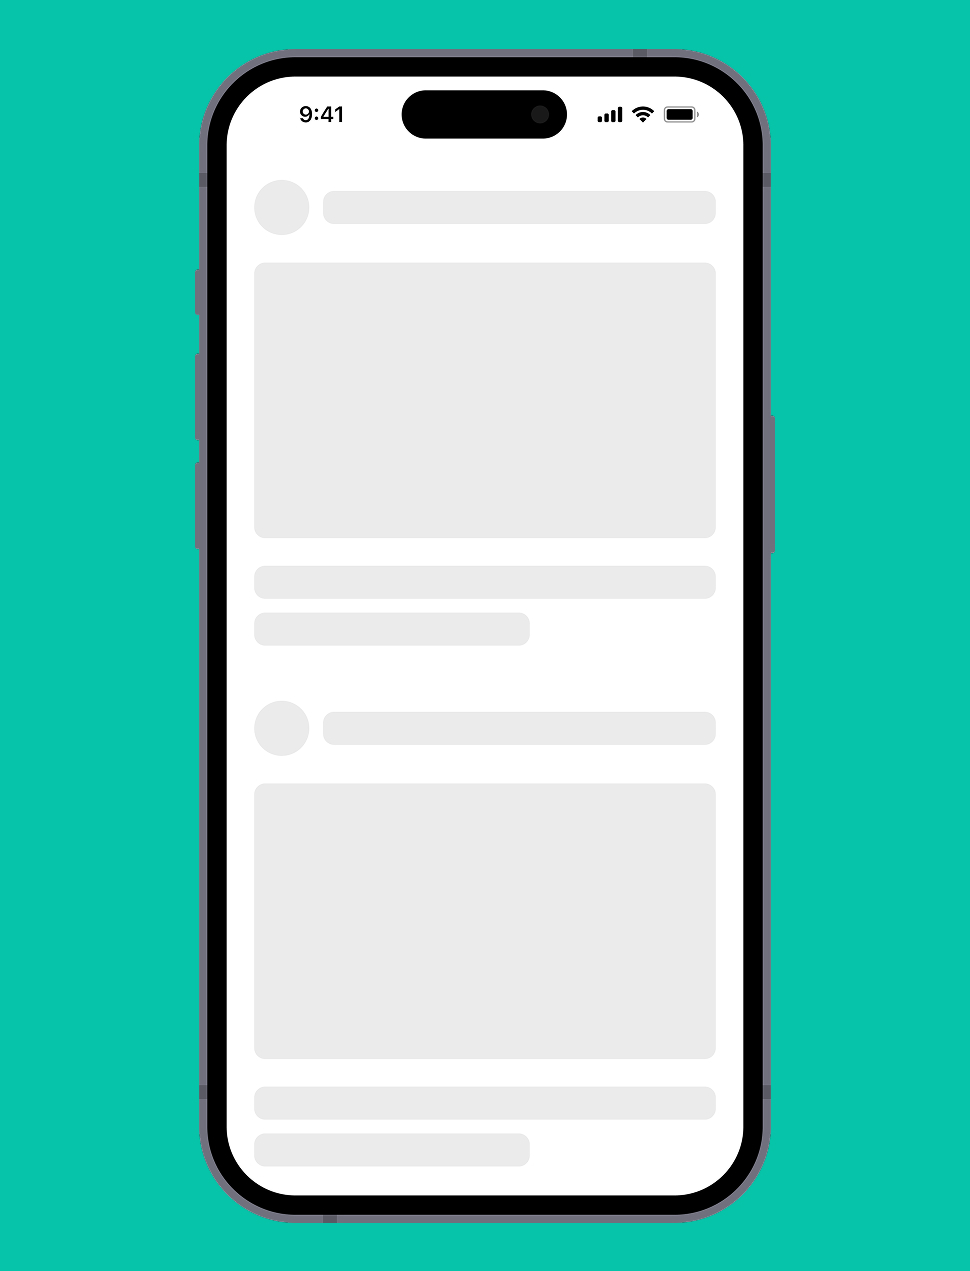
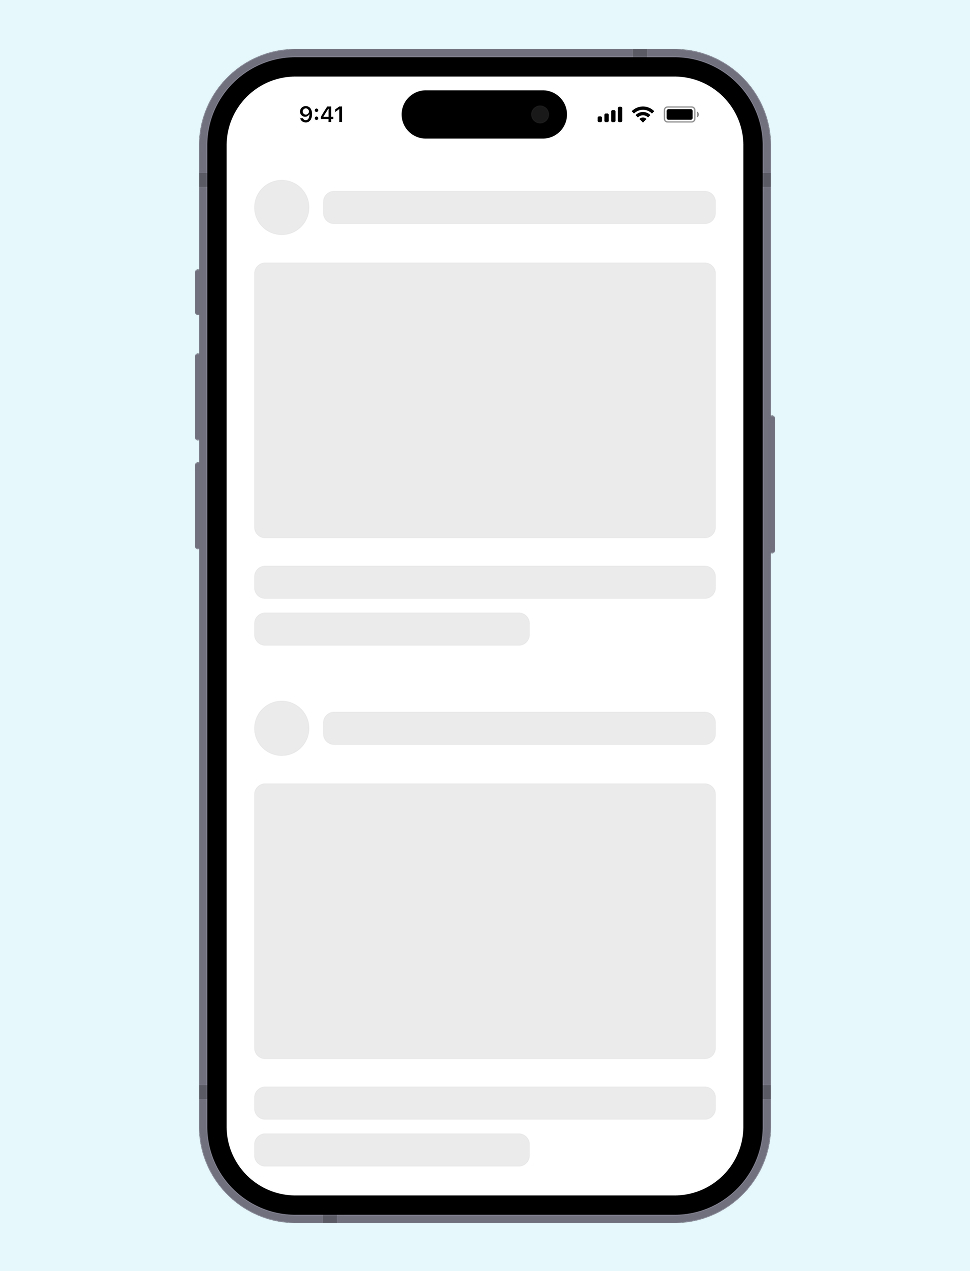
Refactored layout and component styles across the application; updated background colors for consistency, added new color variables, and enhanced the ContactMe component with an image and improved layout. Removed unused BulletList from About page for cleaner presentation.

diff --git a/components/shared/contact-me.tsx b/components/shared/contact-me.tsx
@@ -1,21 +1,36 @@
-import Link from "next/link";
-import { Button } from "../ui/button";
+import Image from "next/image";
 import YellowButton from "./yellow-button";
 
-const ContactMe = () => {
+interface ContactMeProps {
+  className?: string;
+}
+
+const ContactMe = ({ className }: ContactMeProps) => {
   return (
-    <div className="bg-panda-light-green mx-auto p-6 text-center">
-      <h2 className="mb-2 text-2xl font-bold tracking-tight text-white">
-        Looking for an Android Developer?
-      </h2>
-      <p className="mx-auto mb-6 max-w-2xl text-lg font-medium text-white/80">
-        I build Android apps that solve real-world problems.
-      </p>
-      <YellowButton
-        href="mailto:hiretimsf@gmail.com"
-        title="Contact Me"
-        textSize="lg"
-        mt={0}
+    <div
+      className={`bg-panda-background mx-auto flex max-w-2xl flex-col px-6 pt-16 lg:mx-0 lg:max-w-none lg:flex-row lg:items-center lg:pt-0 ${className || ""}`}
+    >
+      <div className="w-full flex-auto px-6 text-center sm:text-left">
+        <h2 className="text-panda-text text-center text-4xl font-semibold tracking-tight text-pretty sm:text-left sm:text-5xl">
+          Looking for an Android Developer?
+        </h2>
+        <p className="text-panda-text mt-6 text-center text-lg/8 text-pretty sm:text-left sm:text-lg">
+          I'm available for in-person or remote work.
+        </p>
+        <YellowButton
+          href="mailto:hiretimsf@gmail.com"
+          title="Contact Me"
+          mt={6}
+        />
+      </div>
+      <Image
+        alt="Contact me image"
+        src="/images/contact-me.png"
+        width={400}
+        height={400}
+        className="h-96 w-full flex-none rounded-2xl object-cover lg:aspect-square lg:h-auto lg:max-w-sm"
+        priority={true}
+        unoptimized={true}
       />
     </div>
   );

diff --git a/app/page.tsx b/app/page.tsx
@@ -95,6 +95,8 @@ export default function HomePage() {
           width={1000}
           height={500}
           className="w-full"
+          priority={true}
+          unoptimized={true}
         />
         <Content className="px-6" />
       </div>
@@ -152,13 +154,13 @@ export default function HomePage() {
         </div>
       </div>
 
-      <div className="mx-auto max-w-5xl">
-        <h2 className="text-panda-text decoration-panda-orange mt-6 mb-4 text-center text-3xl font-bold tracking-tight underline underline-offset-6 sm:text-4xl">
+      <div className="mx-auto max-w-5xl bg-white">
+        <h2 className="text-panda-text decoration-panda-orange py-6 text-center text-3xl font-bold tracking-tight underline underline-offset-6 sm:text-4xl">
           WHAT PEOPLE ARE SAYING
         </h2>
       </div>
       {/* Social proof with tweets and videos in masonry layout */}
-      <MasonryGrid className="mx-auto max-w-7xl border-b border-gray-200 px-6 py-8 lg:px-8">
+      <MasonryGrid className="mx-auto max-w-7xl border-b border-gray-200 bg-white px-6 py-8 lg:px-8">
         {shoutouts.map((item: Shoutout, index: number) => (
           <div key={`${item.type}-${index}`} className="rounded-xl">
             {item.type === "tweet" ? (

diff --git a/styles/tailwind.css b/styles/tailwind.css
@@ -60,6 +60,10 @@
   --color-panda-sega-green: var(--panda-sega-green);
   --color-panda-orange: var(--panda-orange);
   --color-panda-prune: var(--panda-prune);
+  --color-panda-sky-blue: var(--panda-sky-blue);
+  --color-panda-light-purple: var(--panda-light-purple);
+  --color-panda-light-orange: var(--panda-light-orange);
+  --color-panda-background: var(--panda-background);
 }
 
 :root {
@@ -114,6 +118,10 @@
   --panda-sega-green: oklch(0.9745 0.0066 160.08);
   --panda-orange: oklch(0.6908 0.207357 42.2823);
   --panda-prune: oklch(0.9384 0.015 164.72);
+  --panda-sky-blue: oklch(0.967 0.0197 212.54);
+  --panda-light-purple: oklch(0.9343 0.0144 329.13);
+  --panda-light-orange: oklch(0.9769 0.011 63.36);
+  --panda-background: oklch(0.9745 0.0066 160.08);
 }
 
 .dark {

diff --git a/components/shared/check-out.tsx b/components/shared/check-out.tsx
@@ -7,7 +7,7 @@ import Link from "next/link";
 
 const CheckOut = () => {
   return (
-    <div className="bg-panda-prune mx-auto w-full max-w-7xl border-t border-gray-200 py-8 md:py-10">
+    <div className="bg-panda-light-purple mx-auto w-full max-w-7xl border-t border-gray-200 py-8 md:py-10">
       <div className="mx-auto max-w-7xl px-6 lg:px-8">
         <h2 className="text-panda-text decoration-panda-orange mx-auto mb-10 text-center text-3xl font-bold tracking-tight underline underline-offset-8 sm:text-4xl">
           Check out my

diff --git a/app/about/page.tsx b/app/about/page.tsx
@@ -103,12 +103,6 @@ export default function AboutPage() {
               I started my Android Development journey in 2018. I started with
               Java and then Kotlin, and published two apps in the Google Play
               Store.
-              <BulletList
-                list={currentlyWorkingOn}
-                topOffset="top"
-                className="mt-4 text-left"
-                aria-label="Currently working on projects"
-              />
             </div>
 
             <div className="">

diff --git a/components/layout/Header.tsx b/components/layout/Header.tsx
@@ -179,10 +179,7 @@ const Header = memo(({ className }: { className?: string }) => {
 
   return (
     <header
-      className={cn(
-        "bg-background/95 supports-[backdrop-filter]:bg-background/60 sticky top-0 z-50 border-b backdrop-blur",
-        className,
-      )}
+      className={cn("sticky top-0 z-50 border-b backdrop-blur", className)}
     >
       <div className="bg-panda-dark-blue mx-auto max-w-5xl px-4">
         <div className="flex h-16 items-center justify-between">

diff --git a/app/layout.tsx b/app/layout.tsx
@@ -162,7 +162,7 @@ export default function RootLayout({ children }: RootLayoutProps) {
     >
       <body
         className={cn(
-          "selection:bg-panda-text-highlight selection:text-panda-text-on-highlight-green bg-white antialiased",
+          "selection:bg-panda-text-highlight selection:text-panda-text-on-highlight-green bg-panda-background antialiased",
           fontSans.variable,
         )}
         suppressHydrationWarning={true}
